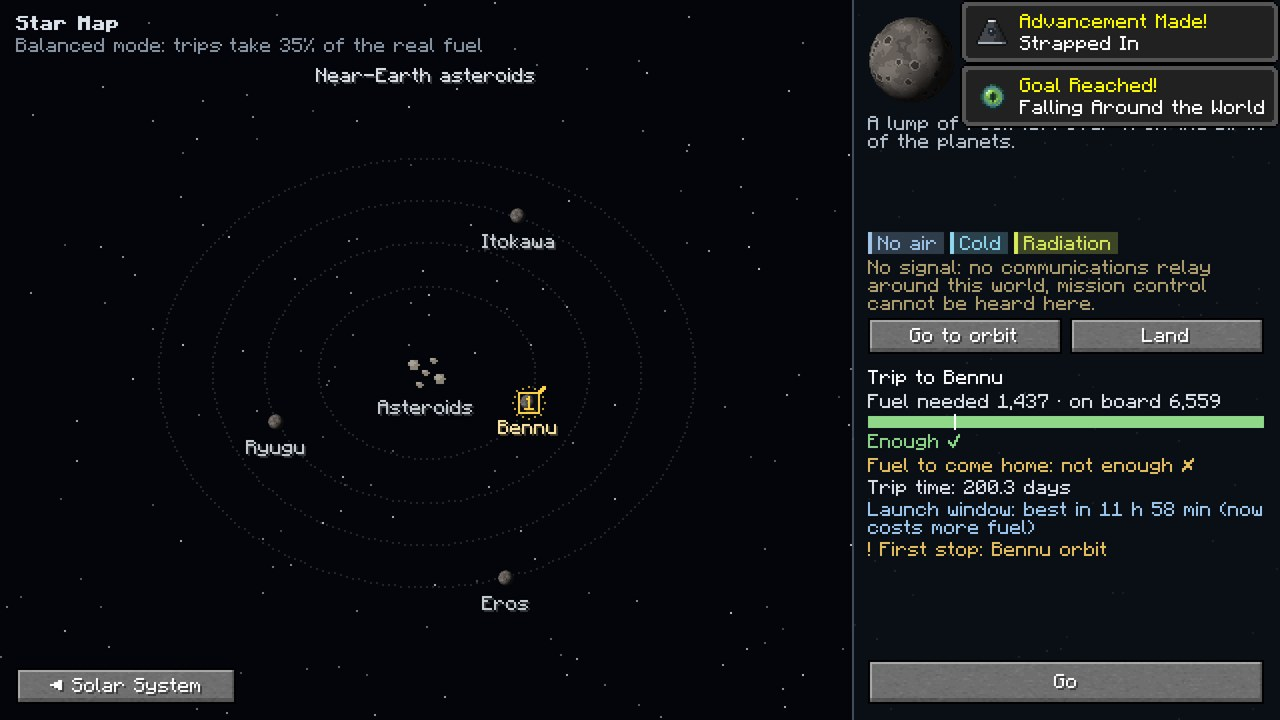
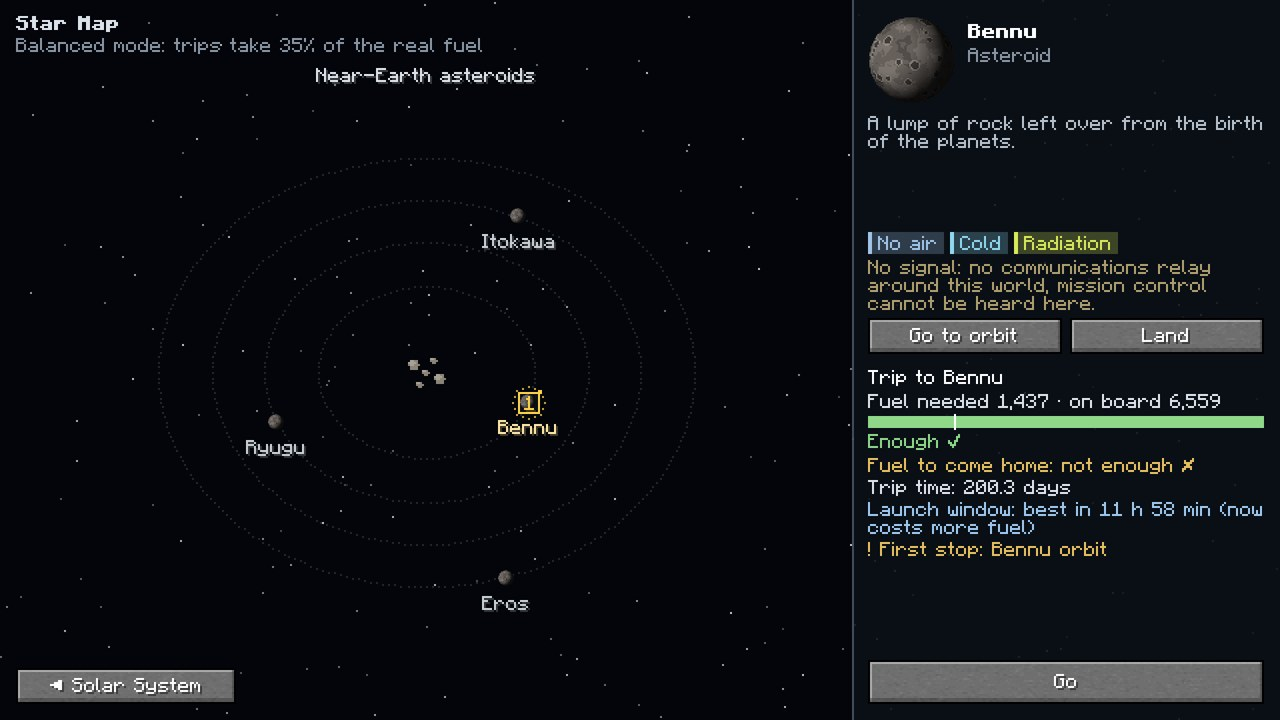
Rocketry: comet view with real ellipses, tidier map panel and showcase
The comet view draws each comet's orbit as an ellipse with the Sun at a focus
(eccentricity from the astro catalogue, size on a log scale) and puts the comet
where Kepler's equation says it is now. Long body names are cut with an
ellipsis, the no-ground note wraps beside the orbit button, the asteroid group
title is not repeated, and the showcase clears advancement pop-ups before
taking map pictures.

Changed region(s): [[0.75, 0.0, 1.0, 0.1833], [0.2812, 0.55, 0.375, 0.5806]]

diff --git a/src/main/java/com/pizzaparker07/spacebreaker/client/rocketry/StarMapScreen.java b/src/main/java/com/pizzaparker07/spacebreaker/client/rocketry/StarMapScreen.java
@@ -186,6 +186,8 @@ public class StarMapScreen extends Screen {
                 int y = cy + (i % 2 == 0 ? -1 : 1) * (int) (height * 0.09F);
                 nodes.put(p, new Node(p, x, y, systemRadius(p)));
             }
+        } else if (StarMapData.COMETS.equals(focus)) {
+            layoutComets(cy);
         } else {
             int cx = mapW / 2;
             int pr = StarMapData.NEAR_EARTH_ASTEROIDS.equals(focus) || StarMapData.COMETS.equals(focus) ? 9 : Mth.clamp(Math.min(mapW, height) / 9, 14, 30);
@@ -199,6 +201,51 @@ public class StarMapScreen extends Screen {
                 double a = 0.35 + i * 2.4;
                 nodes.put(m, new Node(m, cx + (int) (Math.cos(a) * ring), cy + (int) (Math.sin(a) * ring * 0.8), moonRadius(m)));
             }
+        }
+    }
+
+    /** Comet orbits on the comet view: centre x, centre y, half-width, half-height of each ellipse (the Sun at a focus). */
+    private final Map<ResourceLocation, int[]> cometOrbits = new java.util.HashMap<>();
+
+    /**
+     * The comet view: the Sun in the middle and each comet on its own stretched ellipse (eccentricity from the
+     * astro catalogue, size on a log scale of the semi-major axis so Encke and Halley both fit).
+     */
+    private void layoutComets(int cy) {
+        cometOrbits.clear();
+        int cx = mapW / 2;
+        List<ResourceLocation> comets = StarMapData.moons(StarMapData.COMETS);
+        double minA = Double.MAX_VALUE, maxA = 0;
+        for (ResourceLocation c : comets) {
+            double a = com.pizzaparker07.spacebreaker.core.astro.smallbody.Comet.byId(c.getPath()).map(k -> k.semiMajorAxisAu()).orElse(3.0);
+            minA = Math.min(minA, a);
+            maxA = Math.max(maxA, a);
+        }
+        int inner = 40, outer = Math.max(inner + 20, Math.min(mapW / 2 - 24, (int) (height * 0.6)));
+        for (int i = 0; i < comets.size(); i++) {
+            ResourceLocation c = comets.get(i);
+            var k = com.pizzaparker07.spacebreaker.core.astro.smallbody.Comet.byId(c.getPath()).orElse(null);
+            double a = k == null ? 3 : k.semiMajorAxisAu(), e = k == null ? 0.5 : k.eccentricity();
+            double f = maxA > minA ? (Math.log(a) - Math.log(minA)) / (Math.log(maxA) - Math.log(minA)) : 0;
+            // the far end (aphelion) reaches rx·(1 + e) from the Sun: keep it on the map
+            int rx = (int) Math.min(inner + f * (outer - inner), (mapW / 2 - 16) / (1 + e));
+            int ry = Math.max(6, (int) (rx * Math.sqrt(1 - e * e)));
+            int ecx = cx - (int) Math.round(rx * e);     // the Sun sits at the focus
+            cometOrbits.put(c, new int[]{ecx, cy, rx, ry});
+            // where it really is on its orbit now: mean anomaly from the last perihelion, then Kepler's equation
+            double E = 0;
+            if (k != null && minecraft != null && minecraft.level != null) {
+                double days = com.pizzaparker07.spacebreaker.core.astro.BodyAdapter.simTime(minecraft.level) / 86400.0;
+                double period = k.periodSeconds() / 86400.0;
+                double M = 2 * Math.PI * (((days - k.perihelionDays()) / period) % 1.0);
+                E = M;
+                for (int it = 0; it < 30; it++) {
+                    E -= (E - e * Math.sin(E) - M) / (1 - e * Math.cos(E));
+                }
+            }
+            int nx = ecx + (int) Math.round(Math.cos(E) * rx);
+            int ny = cy - (int) Math.round(Math.sin(E) * ry);
+            nodes.put(c, new Node(c, nx, ny, moonRadius(c)));
         }
     }
 
@@ -369,6 +416,14 @@ public class StarMapScreen extends Screen {
     }
 
     private void drawFocus(GuiGraphics g) {
+        if (StarMapData.COMETS.equals(focus)) {
+            for (int[] o : cometOrbits.values()) {
+                ellipse(g, o[0], o[1], o[2], o[3], 0x30A0B4C8);
+            }
+            disc(g, mapW / 2, height / 2 + 6, 6, 0xFFFFD34A);   // the Sun at the shared focus
+            g.drawCenteredString(font, Location.bodyName(focus), mapW / 2, 34, INK);
+            return;
+        }
         Node p = nodes.get(focus);
         if (p == null) {
             return;
@@ -399,7 +454,9 @@ public class StarMapScreen extends Screen {
                         .map(c -> (Component) Component.literal(c.designation())).orElse(name);
             }
             int col = sel ? 0xFFFFE9A8 : 0xFFC8D0D8;
-            g.drawCenteredString(font, name, n.x, n.y + n.r + 5, col);
+            if (!(n.body.equals(focus) && StarMapData.NEAR_EARTH_ASTEROIDS.equals(focus))) {   // the title already names the group
+                g.drawCenteredString(font, name, n.x, n.y + n.r + 5, col);
+            }
             if (!com.pizzaparker07.spacebreaker.content.rocketry.station.Stations.around(n.body).isEmpty()) {
                 stationIcon(g, n.x + n.r + 1, n.y - n.r - 5);
             }
@@ -501,7 +558,14 @@ public class StarMapScreen extends Screen {
         // picture and name
         int disc = 44;
         planet(g, body, x + disc / 2, 8 + disc / 2, disc / 2);
-        g.drawString(font, Location.bodyName(body).copy().withStyle(ChatFormatting.BOLD), x + disc + 6, 12, 0xFFFFFFFF, false);
+        Component title = Location.bodyName(body).copy().withStyle(ChatFormatting.BOLD);
+        int room = w - disc - 6;
+        if (font.width(title) > room) {
+            // long names (67P/Churyumov–Gerasimenko) are cut with an ellipsis rather than run off the panel
+            title = Component.literal(font.plainSubstrByWidth(Location.bodyName(body).getString(), room - font.width("…") - 6) + "…")
+                    .withStyle(ChatFormatting.BOLD);
+        }
+        g.drawString(font, title, x + disc + 6, 12, 0xFFFFFFFF, false);
         Component kind = Component.translatable("gui.spacebreaker.star_map.kind." + Locations.body(body).map(b -> b.type().name()).orElse("TERRESTRIAL")
                 .toLowerCase(Locale.ROOT));
         g.drawString(font, kind, x + disc + 6, 24, DIM, false);
@@ -573,7 +637,8 @@ public class StarMapScreen extends Screen {
         orbitButton.setY(Math.max(148, y + 2));
         surfaceButton.setY(orbitButton.getY());
         if (!surfaceButton.visible) {
-            g.drawString(font, Component.translatable("gui.spacebreaker.star_map.no_surface"), x + w / 2 + 4, orbitButton.getY() + 5, DIM, false);
+            // wrapped beside the orbit button so a long line (Turkish) never runs off the panel
+            g.drawWordWrap(font, Component.translatable("gui.spacebreaker.star_map.no_surface"), x + w / 2 + 4, orbitButton.getY() + 1, w / 2 - 4, DIM);
         }
         fuelBarY = -1;
         if (trip == null) {

diff --git a/src/testmod/java/com/pizzaparker07/spacebreaker/testmod/showcase/RocketryShowcaseClient.java b/src/testmod/java/com/pizzaparker07/spacebreaker/testmod/showcase/RocketryShowcaseClient.java
@@ -31,6 +31,7 @@ final class RocketryShowcaseClient {
             if (!(mc.screen instanceof StarMapScreen)) {
                 StarMapScreen map = new StarMapScreen(rocket);
                 mc.setScreen(map);
+                mc.getToasts().clear(); // advancement pop-ups would cover the panel in the picture
                 if (star != null) {
                     map.showStar(star);
                 } else if (preselect != null) {
